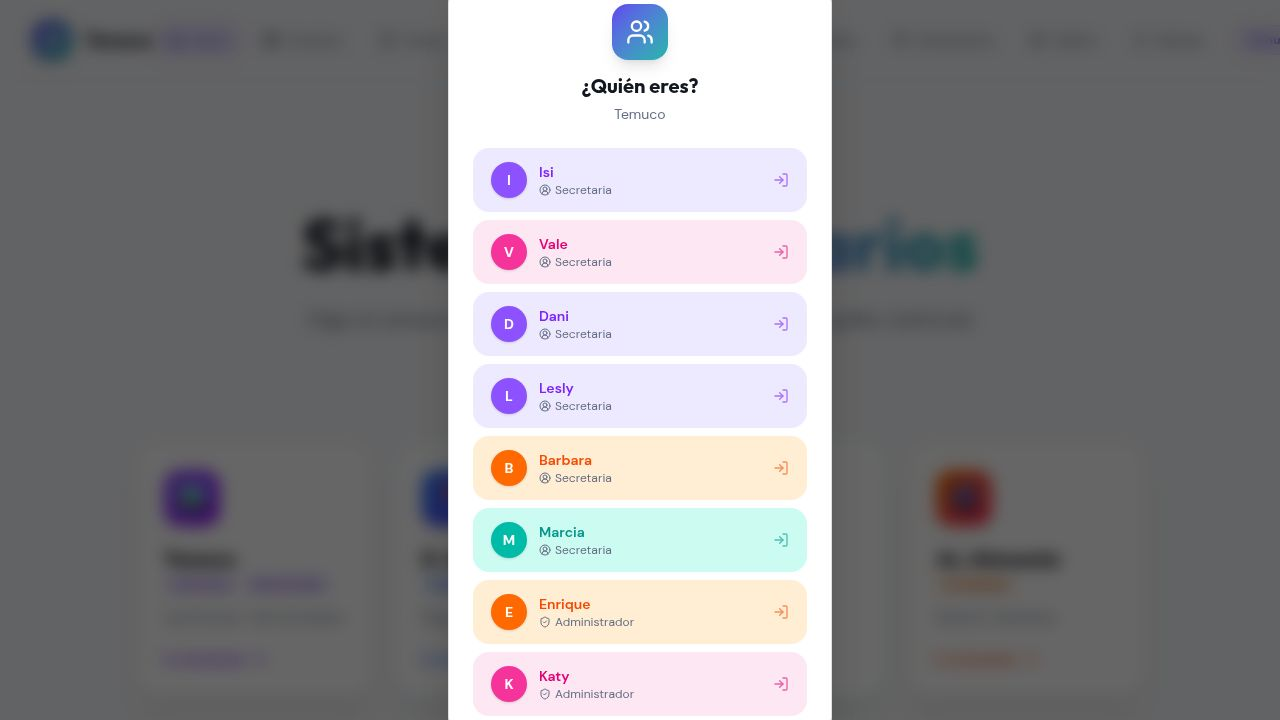
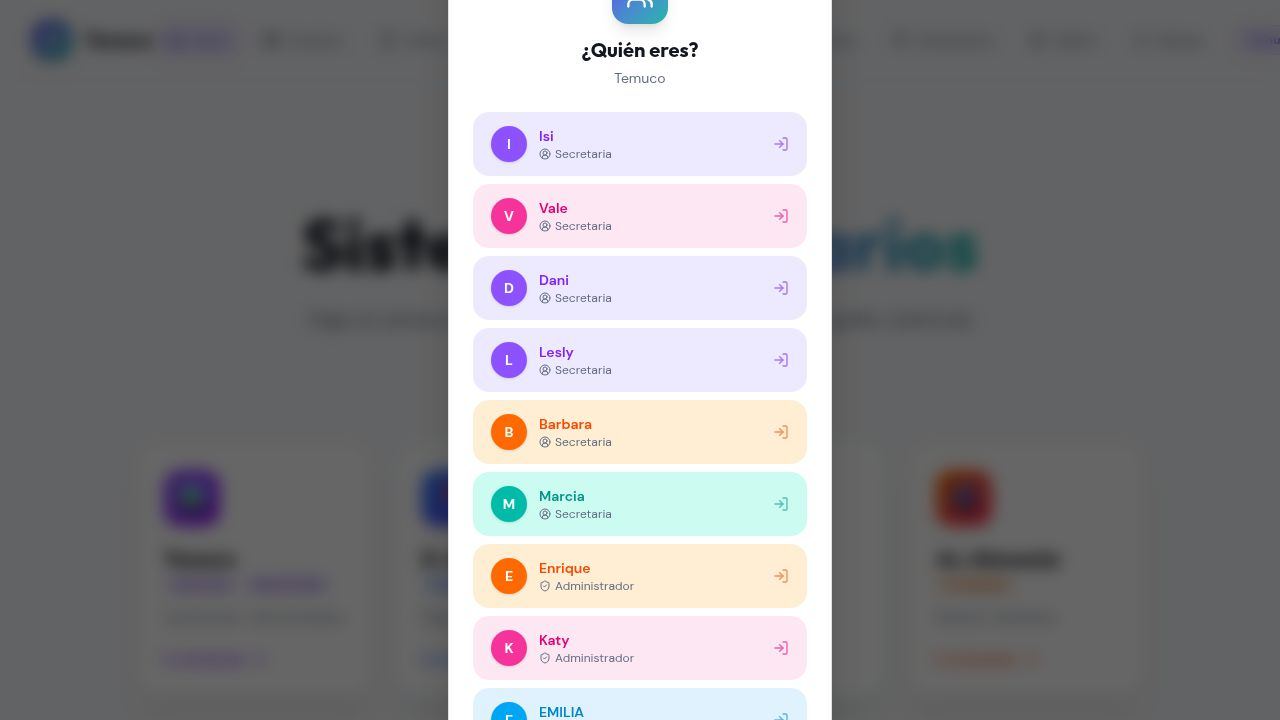
Add ability to manage available time slots for orientation Add API endpoints and UI for managing available time slots for orientation, including adding and deleting slots.
Replit-Commit-Author: Agent
Replit-Commit-Session-Id: de0a42bd-922c-405d-9967-44c7cc428fad
Replit-Commit-Checkpoint-Type: full_checkpoint
Replit-Commit-Event-Id: b5490119-5452-4574-ab63-e8fc59cda712
Replit-Commit-Screenshot-Url: https://storage.googleapis.com/screenshot-production-us-central1/a9c21c6a-589e-4ce7-ba3f-55e4eaf5a212/de0a42bd-922c-405d-9967-44c7cc428fad/M76nDZN
Replit-Helium-Checkpoint-Created: true

diff --git a/artifacts/horario-secretarias/src/pages/OrientacionPage.tsx b/artifacts/horario-secretarias/src/pages/OrientacionPage.tsx
@@ -44,7 +44,7 @@ const DOW_ES: Record<string, string> = {
   jueves:"Jueves", viernes:"Viernes",
 };
 const DOW_ORDER = ["lunes","martes","miercoles","jueves","viernes"];
-const HORAS_DISPONIBLES = [
+const HORAS_DEFAULT = [
   "08:00","09:00","10:00","11:00","12:00","13:00","14:00",
   "15:00","16:00","17:00","18:00","19:00","20:00",
 ];
@@ -363,18 +363,23 @@ function EstadosPanel({
 // ─── Admin Modal (checkbox grid + feriados + estados) ─────────────────────────
 
 function AdminModal({
-  orientadora, horario, bloqueos, estados, onClose, onRefresh, onRefreshEstados,
+  orientadora, horario, bloqueos, estados, horasDisponibles, onClose, onRefresh, onRefreshEstados, onRefreshHoras,
 }: {
   orientadora: Orientadora;
   horario: HorarioSlot[];
   bloqueos: Bloqueo[];
   estados: EstadoDB[];
+  horasDisponibles: string[];
   onClose: () => void;
   onRefresh: () => void;
   onRefreshEstados: () => void;
+  onRefreshHoras: () => void;
 }) {
-  const [tab, setTab] = useState<"horario"|"feriados"|"estados">("horario");
+  const [tab, setTab] = useState<"horario"|"feriados"|"estados"|"horas">("horario");
   const [saving, setSaving] = useState(false);
+  const [newHora, setNewHora] = useState("");
+  const [savingHora, setSavingHora] = useState(false);
+  const [horaError, setHoraError] = useState("");
   // Feriado form
   const [feriadoDesde, setFeriadoDesde] = useState("");
   const [feriadoHasta, setFeriadoHasta] = useState("");
@@ -402,10 +407,31 @@ function AdminModal({
     setSaving(false);
   }
 
+  async function addHora() {
+    if (!newHora) { setHoraError("Ingresa una hora"); return; }
+    if (!/^\d{2}:\d{2}$/.test(newHora)) { setHoraError("Formato HH:MM"); return; }
+    setSavingHora(true); setHoraError("");
+    try {
+      const r = await fetch(apiUrl("/api/orientacion/horas"), {
+        method: "POST", headers: { "Content-Type": "application/json" },
+        body: JSON.stringify({ hora: newHora }),
+      });
+      const data = await r.json();
+      if (data.error) setHoraError(data.error);
+      else { setNewHora(""); onRefreshHoras(); }
+    } catch { setHoraError("Error de conexión"); }
+    finally { setSavingHora(false); }
+  }
+
+  async function deleteHora(hora: string) {
+    await fetch(apiUrl(`/api/orientacion/horas/${encodeURIComponent(hora)}`), { method: "DELETE" });
+    onRefreshHoras();
+  }
+
   // Toggle ALL hours for a given day
   async function toggleDay(dia: string) {
     setSaving(true);
-    const diaSlots = HORAS_DISPONIBLES.map(h => ({ h, key: `${dia}|${h}` }));
+    const diaSlots = horasDisponibles.map(h => ({ h, key: `${dia}|${h}` }));
     const allOn = diaSlots.every(({ key }) => slotMap[key] !== undefined);
     if (allOn) {
       // Remove all
@@ -448,8 +474,8 @@ function AdminModal({
   // Which hours are active for at least one day?
   const activeHours = useMemo(() => {
     const used = new Set(horario.map(s => s.horaInicio));
-    return HORAS_DISPONIBLES.filter(h => used.has(h) || true); // show all, checked = active
-  }, [horario]);
+    return horasDisponibles.filter(h => used.has(h) || true); // show all, checked = active
+  }, [horario, horasDisponibles]);
 
   return (
     <div
@@ -474,14 +500,15 @@ function AdminModal({
         <div className="p-6 space-y-5">
 
         {/* Tabs */}
-        <div className="flex gap-1 bg-muted/60 rounded-xl p-1">
+        <div className="flex gap-1 bg-muted/60 rounded-xl p-1 flex-wrap">
           {([
             ["horario",  "📅 Horario"],
             ["feriados", "🚫 Sin atención"],
             ["estados",  "🎨 Estados"],
+            ["horas",    "🕐 Módulos"],
           ] as const).map(([t, label]) => (
             <button key={t} onClick={() => setTab(t)}
-              className={`flex-1 py-2 rounded-lg text-sm font-medium transition-colors ${tab===t ? "bg-background shadow-sm text-foreground" : "text-muted-foreground hover:text-foreground"}`}>
+              className={`flex-1 py-2 rounded-lg text-xs font-medium transition-colors ${tab===t ? "bg-background shadow-sm text-foreground" : "text-muted-foreground hover:text-foreground"}`}>
               {label}
             </button>
           ))}
@@ -498,8 +525,8 @@ function AdminModal({
                   <tr>
                     <th className="text-left py-2 pr-3 text-xs font-semibold text-muted-foreground w-14">Hora</th>
                     {DOW_ORDER.map(d => {
-                      const allChecked = HORAS_DISPONIBLES.every(h => slotMap[`${d}|${h}`] !== undefined);
-                      const someChecked = HORAS_DISPONIBLES.some(h => slotMap[`${d}|${h}`] !== undefined);
+                      const allChecked = horasDisponibles.every(h => slotMap[`${d}|${h}`] !== undefined);
+                      const someChecked = horasDisponibles.some(h => slotMap[`${d}|${h}`] !== undefined);
                       return (
                         <th key={d} className="text-center py-1 px-1">
                           <button
@@ -521,7 +548,7 @@ function AdminModal({
                   </tr>
                 </thead>
                 <tbody>
-                  {HORAS_DISPONIBLES.map(hora => (
+                  {horasDisponibles.map(hora => (
                     <tr key={hora} className="border-t border-border/50">
                       <td className="py-1.5 pr-3 text-xs font-mono text-muted-foreground">{hora}</td>
                       {DOW_ORDER.map(dia => {
@@ -556,6 +583,55 @@ function AdminModal({
 
         {tab === "estados" && (
           <EstadosPanel estados={estados} onRefresh={onRefreshEstados} />
+        )}
+
+        {tab === "horas" && (
+          <div className="space-y-4">
+            <p className="text-xs text-muted-foreground">
+              Estos son los módulos de tiempo disponibles para asignar al horario de la orientadora. Agrega o elimina horas según necesites (ej. 16:30, 17:30).
+            </p>
+            <div className="grid grid-cols-4 gap-2">
+              {horasDisponibles.map(h => (
+                <div key={h} className="flex items-center justify-between gap-1 bg-muted/50 border border-border rounded-lg px-2 py-1.5">
+                  <span className="text-xs font-mono font-semibold text-foreground">{h}</span>
+                  <button
+                    onClick={() => deleteHora(h)}
+                    className="text-muted-foreground hover:text-red-500 transition-colors shrink-0"
+                    title="Eliminar módulo"
+                  >
+                    <X className="w-3.5 h-3.5" />
+                  </button>
+                </div>
+              ))}
+              {horasDisponibles.length === 0 && (
+                <p className="col-span-4 text-xs text-muted-foreground italic">Sin módulos definidos</p>
+              )}
+            </div>
+            <div className="border-t border-border pt-4 space-y-2">
+              <h4 className="text-sm font-semibold text-foreground">Agregar módulo</h4>
+              <div className="flex gap-2 items-start">
+                <div className="flex-1">
+                  <input
+                    type="time"
+                    value={newHora}
+                    onChange={e => { setNewHora(e.target.value); setHoraError(""); }}
+                    className="w-full px-3 py-2 rounded-xl border border-border bg-background text-sm focus:outline-none focus:ring-2 focus:ring-primary/40"
+                  />
+                  {horaError && <p className="text-xs text-red-500 mt-1">{horaError}</p>}
+                </div>
+                <button
+                  onClick={addHora}
+                  disabled={savingHora || !newHora}
+                  className="px-4 py-2 rounded-xl bg-primary text-primary-foreground text-sm font-semibold hover:bg-primary/90 transition-colors disabled:opacity-50"
+                >
+                  {savingHora ? "…" : "Agregar"}
+                </button>
+              </div>
+              <p className="text-[11px] text-muted-foreground">
+                Puedes agregar horas como 16:30 o 17:45 — no es necesario que sean en punto.
+              </p>
+            </div>
+          </div>
         )}
 
         {tab === "feriados" && (
@@ -945,6 +1021,7 @@ export default function OrientacionPage() {
   const [horario, setHorario]           = useState<HorarioSlot[]>([]);
   const [bloqueos, setBloqueos]         = useState<Bloqueo[]>([]);
   const [estados, setEstados]           = useState<EstadoDB[]>([]);
+  const [horasDisponibles, setHorasDisponibles] = useState<string[]>(HORAS_DEFAULT);
   const [loadingSlots, setLoadingSlots] = useState(false);
   const [bookingModal, setBookingModal] = useState<{fecha:string; hora:string}|null>(null);
   const [adminModal, setAdminModal]     = useState(false);
@@ -989,7 +1066,17 @@ export default function OrientacionPage() {
     } catch {}
   }, []);
 
-  useEffect(() => { loadOrientadoras(); loadEstados(); }, []);
+  // ── Load horas disponibles ─────────────────────────────────────────────────
+  const loadHoras = useCallback(async () => {
+    try {
+      const r = await fetch(apiUrl("/api/orientacion/horas"));
+      if (!r.ok) return;
+      const data: string[] = await r.json();
+      if (data.length > 0) setHorasDisponibles(data);
+    } catch {}
+  }, []);
+
+  useEffect(() => { loadOrientadoras(); loadEstados(); loadHoras(); }, []);
 
   // ── Load slots ────────────────────────────────────────────────────────────
   const loadSlots = useCallback(async () => {
@@ -1106,8 +1193,10 @@ export default function OrientacionPage() {
   // Get all unique hours across all working days (sorted)
   const allHours = useMemo(() => {
     const h = new Set(slots.map(s => s.horaInicio));
-    return HORAS_DISPONIBLES.filter(hora => h.has(hora));
-  }, [slots]);
+    // Include any slot hour not yet in horasDisponibles (safety net)
+    const extra = [...h].filter(hora => !horasDisponibles.includes(hora));
+    return [...horasDisponibles.filter(hora => h.has(hora)), ...extra].sort();
+  }, [slots, horasDisponibles]);
 
   const bookedCount   = slots.filter(s => s.status === "booked").length;
   const availableCount = slots.filter(s => s.status === "available").length;
@@ -1321,9 +1410,11 @@ export default function OrientacionPage() {
           orientadora={selectedOrientadora}
           horario={horario} bloqueos={bloqueos}
           estados={estados}
+          horasDisponibles={horasDisponibles}
           onClose={() => { setAdminModal(false); loadSlots(); }}
           onRefresh={loadAdminData}
           onRefreshEstados={loadEstados}
+          onRefreshHoras={loadHoras}
         />
       )}
 

diff --git a/artifacts/api-server/src/routes/orientacion.ts b/artifacts/api-server/src/routes/orientacion.ts
@@ -477,4 +477,32 @@ router.delete("/orientacion/estados/:id", async (req, res) => {
   } catch (err) { console.error(err); res.status(500).json({ error: "Error" }); }
 });
 
+// ── GET /api/orientacion/horas ────────────────────────────────────────────────
+router.get("/orientacion/horas", async (_req, res) => {
+  try {
+    const { rows } = await pool.query(`SELECT hora FROM orientacion_horas_disponibles ORDER BY hora`);
+    res.json(rows.map((r: { hora: string }) => r.hora));
+  } catch (err) { console.error(err); res.status(500).json({ error: "Error" }); }
+});
+
+// ── POST /api/orientacion/horas ───────────────────────────────────────────────
+router.post("/orientacion/horas", async (req, res) => {
+  try {
+    const { hora } = req.body as { hora?: string };
+    if (!hora?.trim()) return res.status(400).json({ error: "hora requerida" });
+    const h = hora.trim();
+    if (!/^\d{2}:\d{2}$/.test(h)) return res.status(400).json({ error: "Formato inválido (HH:MM)" });
+    await pool.query(`INSERT INTO orientacion_horas_disponibles (hora) VALUES ($1) ON CONFLICT DO NOTHING`, [h]);
+    res.status(201).json({ ok: true, hora: h });
+  } catch (err) { console.error(err); res.status(500).json({ error: "Error" }); }
+});
+
+// ── DELETE /api/orientacion/horas/:hora ──────────────────────────────────────
+router.delete("/orientacion/horas/:hora", async (req, res) => {
+  try {
+    await pool.query(`DELETE FROM orientacion_horas_disponibles WHERE hora=$1`, [req.params.hora]);
+    res.json({ ok: true });
+  } catch (err) { console.error(err); res.status(500).json({ error: "Error" }); }
+});
+
 export default router;

diff --git a/artifacts/api-server/src/index.ts b/artifacts/api-server/src/index.ts
@@ -260,7 +260,21 @@ async function ensureTables() {
         updated_at TIMESTAMP DEFAULT NOW()
       )
     `);
-    console.log("Tables ensured (tasks, task_items, team_members, workshops, workshop_students, orientación, notas, semester column, composite PK/FK)");
+    // ── Horas disponibles para Orientación ────────────────────────────────
+    await client.query(`
+      CREATE TABLE IF NOT EXISTS orientacion_horas_disponibles (
+        hora TEXT PRIMARY KEY
+      )
+    `);
+    const { rows: horasRows } = await client.query(`SELECT COUNT(*) FROM orientacion_horas_disponibles`);
+    if (parseInt(horasRows[0].count) === 0) {
+      await client.query(`
+        INSERT INTO orientacion_horas_disponibles (hora) VALUES
+          ('08:00'),('09:00'),('10:00'),('11:00'),('12:00'),('13:00'),('14:00'),
+          ('15:00'),('16:00'),('17:00'),('18:00'),('19:00'),('20:00')
+      `);
+    }
+    console.log("Tables ensured (tasks, task_items, team_members, workshops, workshop_students, orientación, notas, horas_disponibles, semester column, composite PK/FK)");
   } catch (err) {
     console.error("Error ensuring tables:", err);
   } finally {